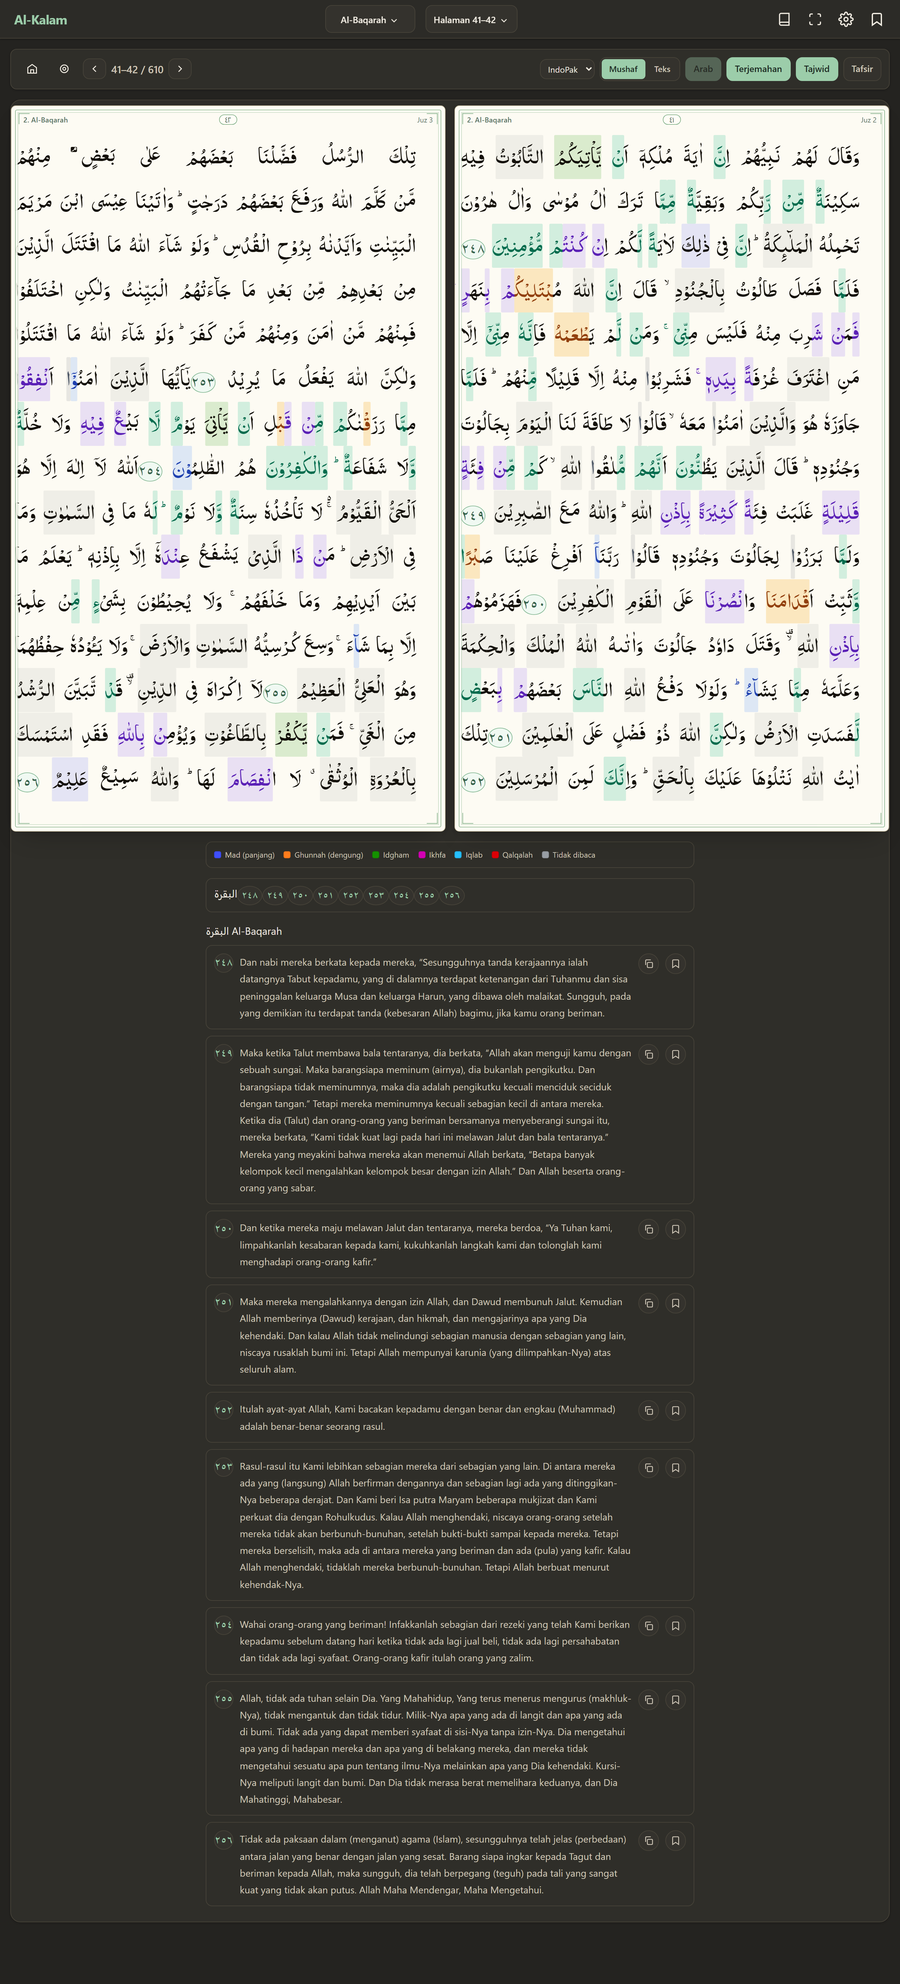
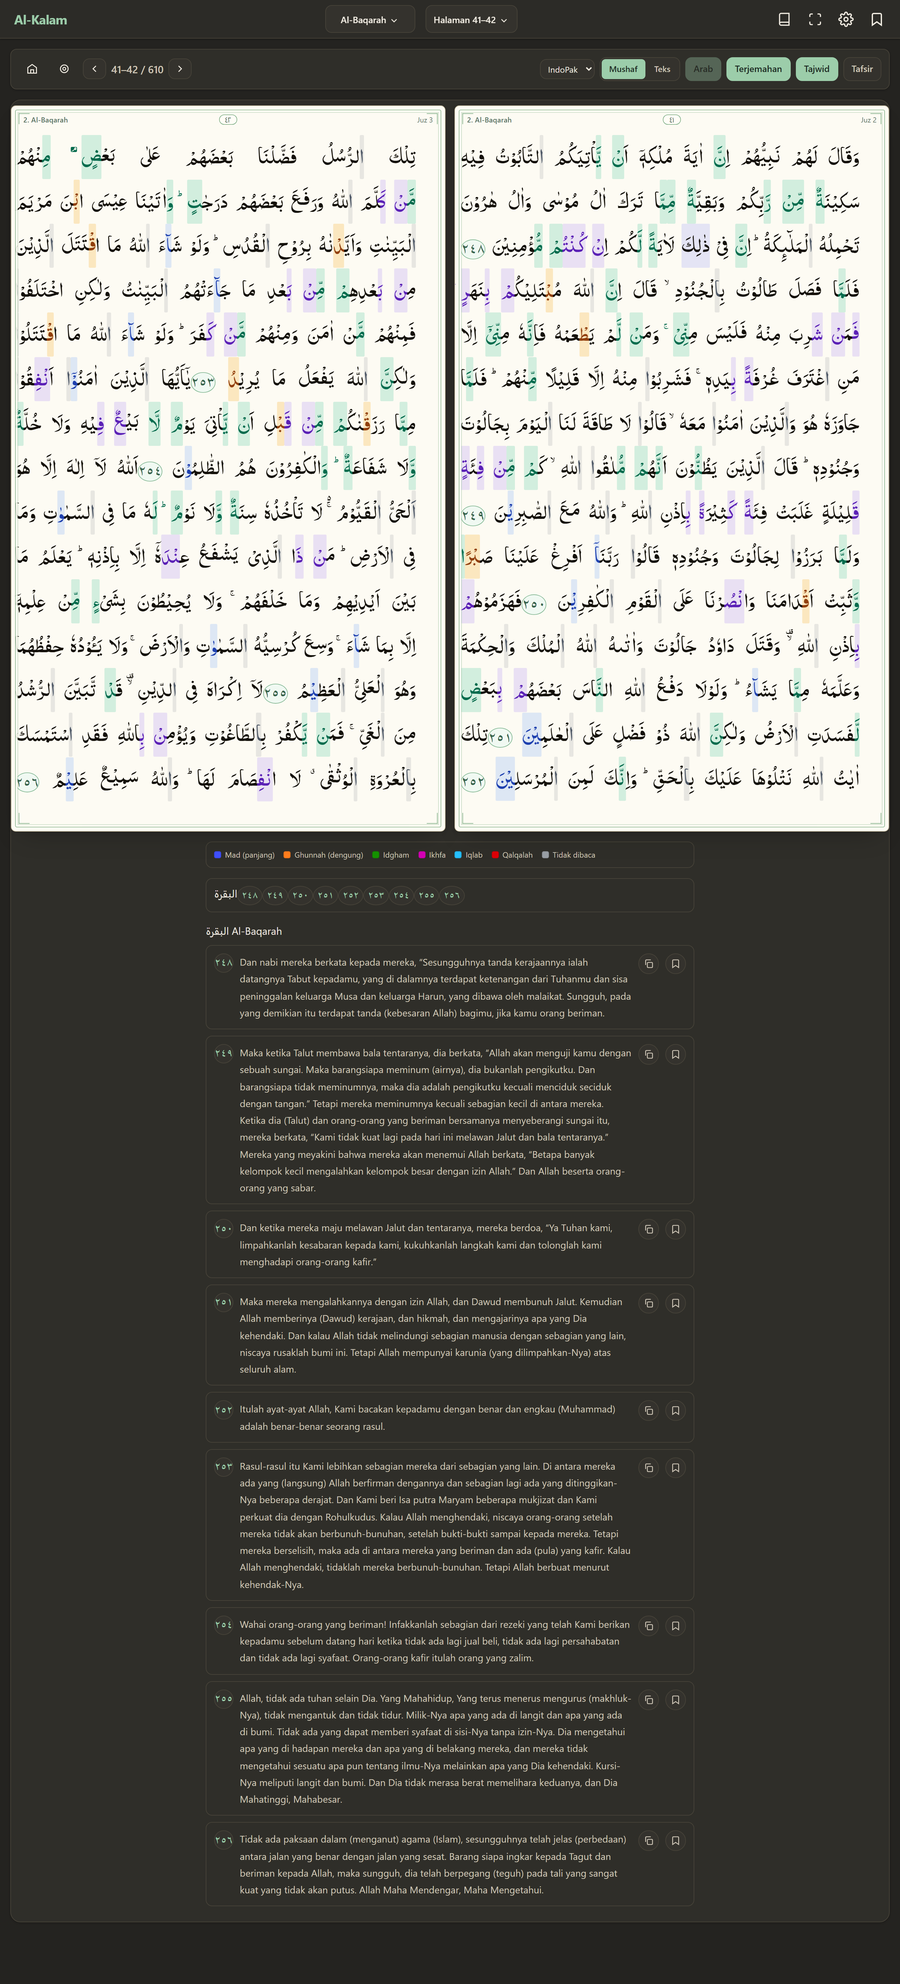
Audit tajwid IndoPak: kata penuh & ayat tanpa sorotan diperbaiki
Masalah (hasil audit 6.236 ayat):
- 217 ayat dilewati total karena jumlah kata IndoPak != markup
- 17% huruf tidak punya pasangan lalu MEWARISI aturan terakhir, sehingga
  sorotan melebar ke seluruh kata

Perbaikan:
- Penyejajaran KATA (Needleman-Wunsch + kemiripan huruf dasar) untuk ayat yang
  jumlah katanya berbeda; 4.223 kata di 217 ayat itu kini terpetakan (100%)
- Huruf tanpa pasangan tidak lagi mewarisi aturan; hanya diwarnai bila diapit
  dua huruf beraturan sama
- Cadangan proporsional bila penyelarasan huruf tidak menghasilkan aturan sama
  sekali (mis. kata yang bentuknya jauh berbeda)

Hasil audit setelah perbaikan:
- Ayat berhukum & terwarnai : 5.910
- Ayat tanpa hukum (memang)  : 92
- Ayat berhukum tapi kosong  : 1  (sebelumnya 234)
- Kata diwarnai penuh        : 694 (0,9%)
- Kata diwarnai sebagian     : 45.267
- Huruf diwarnai             : 57.521 / 325.006 (17,7%)

- Skrip audit ikut di repo: tools/audit_tajwid_final.py
- Diuji di browser: 2:26 -> 27/39 kata berwarna per huruf, 0 kata penuh;
  2:248 -> 16/30 per huruf, 1 kata penuh; tanpa error

diff --git a/js/app.js b/js/app.js
@@ -157,7 +157,7 @@
   }
   
   // ── Versi build (tanda bahwa browser memakai bundel terbaru) ────────
-  const BUILD = '2026-11-22-tajwid-textref';
+  const BUILD = '2026-11-22-tajwid-audit';
 
   function showBuildTag() {
     const el = document.getElementById('buildTag');
@@ -474,21 +474,82 @@
           : Math.max(dp[i + 1][j], dp[i][j + 1]);
       }
     }
-    const out = new Array(n).fill(null);
-    let i = 0, j = 0, lastRule = null;
+    const out = new Array(n).fill(undefined);
+    let i = 0, j = 0;
     while (i < n && j < m) {
       if (base[i] === markupBase[j]) {
-        out[i] = rules[j] ?? lastRule;
-        if (rules[j]) lastRule = rules[j];
+        out[i] = rules[j] ?? null;
         i++; j++;
       } else if (dp[i + 1][j] >= dp[i][j + 1]) {
-        out[i] = lastRule;        // huruf IndoPak tanpa pasangan
-        i++;
+        i++;                      // huruf IndoPak tanpa pasangan (dibiarkan kosong)
       } else {
         j++;
       }
     }
-    while (i < n) { out[i] = lastRule; i++; }
+    // huruf kosong yang diapit dua huruf beraturan sama ikut diwarnai
+    for (let k = 0; k < n; k++) {
+      if (out[k] !== undefined) continue;
+      let a = k - 1; while (a >= 0 && out[a] === undefined) a--;
+      let b = k + 1; while (b < n && out[b] === undefined) b++;
+      const left = a >= 0 ? out[a] : null;
+      const right = b < n ? out[b] : null;
+      out[k] = (left && right && left === right) ? left : null;
+    }
+    // cadangan terakhir: sebar menurut proporsi (mis. kata yang bentuknya jauh berbeda)
+    if (!out.some(Boolean) && m > 0 && rules.length) {
+      for (let k = 0; k < n; k++) {
+        const j = n > 1 ? Math.round(k * (m - 1) / (n - 1)) : 0;
+        out[k] = rules[Math.min(j, rules.length - 1)] || null;
+      }
+    }
+    return out;
+  }
+
+  /** Kemiripan dua kata (0..1) untuk penyejajaran kata. */
+  function wordSimilarity(a, b) {
+    if (!a || !b) return -0.5;
+    if (a === b) return 1;
+    const n = a.length, m = b.length;
+    if (!n || !m) return -0.4;
+    let prev = new Array(m + 1).fill(0);
+    for (let i = 1; i <= n; i++) {
+      const cur = new Array(m + 1).fill(0);
+      for (let j = 1; j <= m; j++) {
+        cur[j] = a[i - 1] === b[j - 1] ? prev[j - 1] + 1 : Math.max(prev[j], cur[j - 1]);
+      }
+      prev = cur;
+    }
+    const r = prev[m] / Math.max(n, m);
+    return r >= 0.95 ? 1 : r >= 0.7 ? 0.7 : r >= 0.5 ? 0.4 : -0.4;
+  }
+
+  /**
+   * Sejajarkan daftar kata IndoPak dengan kata markup (Needleman-Wunsch).
+   * Dipakai saat jumlah kata berbeda (217 ayat) agar tetap bisa diwarnai.
+   */
+  function alignWords(indo, markup) {
+    const n = indo.length, m = markup.length;
+    const GAP = -0.55;
+    const dp = Array.from({ length: n + 1 }, () => new Array(m + 1).fill(0));
+    for (let i = n; i >= 0; i--) {
+      for (let j = m; j >= 0; j--) {
+        if (i === n && j === m) dp[i][j] = 0;
+        else if (i === n) dp[i][j] = dp[i][j + 1] + GAP;
+        else if (j === m) dp[i][j] = dp[i + 1][j] + GAP;
+        else dp[i][j] = Math.max(
+          dp[i + 1][j + 1] + wordSimilarity(indo[i], markup[j]),
+          dp[i + 1][j] + GAP,
+          dp[i][j + 1] + GAP);
+      }
+    }
+    const out = new Array(n).fill(-1);
+    let i = 0, j = 0;
+    while (i < n && j < m) {
+      const diag = dp[i + 1][j + 1] + wordSimilarity(indo[i], markup[j]);
+      if (Math.abs(dp[i][j] - diag) < 1e-9) { out[i] = j; i++; j++; }
+      else if (Math.abs(dp[i][j] - (dp[i + 1][j] + GAP)) < 1e-9) i++;
+      else j++;
+    }
     return out;
   }
 
@@ -1045,25 +1106,43 @@
     // ayat tidak dihitung), supaya indeks sejajar dengan markup tajwid.
     const tintByVerse = new Map();
     if (wordTintOn) {
-      const textPos = new Map();                 // vk -> [pos kata teks, urut]
+      const textPos = new Map();                 // vk -> [{ pos, base }] urut
       for (const row of buildRows(layout, page, chapters) || []) {
         if (row.kind !== 'words') continue;
-        for (const [vk, pos, , isEnd] of row.words) {
+        for (const [vk, pos, glyph, isEnd] of row.words) {
           if (isEnd) continue;
+          const txt = String(glyph).replace(/[\uE000-\uF8FF]/g, '').trim();
           if (!textPos.has(vk)) textPos.set(vk, []);
-          textPos.get(vk).push(pos);
+          textPos.get(vk).push({ pos, base: baseLetters(txt) });
         }
       }
-      for (const [vk, poss] of textPos) {
-        const letters = await verseLetterData(vk);      // kata + aturan per huruf
-        if (!letters.length || letters.length !== poss.length) continue;  // jumlah kata beda
-        const m = new Map();
-        poss.forEach((p, i) => {
-          const g = (letters[i].rules || []).find(Boolean) || null;       // aturan dominan kata
-          if (g) m.set(p, g);
+      for (const [vk, items] of textPos) {
+        const markupWords = await verseLetterData(vk);   // [{ base, rules }]
+        if (!markupWords.length) continue;
+
+        // petakan kata IndoPak → kata markup (jumlah sama: langsung; beda: disejajarkan)
+        let mapping;
+        if (markupWords.length === items.length) {
+          mapping = items.map((_, i) => i);
+        } else {
+          mapping = alignWords(items.map(x => x.base), markupWords.map(w => w.base));
+        }
+
+        const byOrdinal = new Map();               // ordinal → kata markup
+        const m = new Map();                       // posisi → grup dominan (cadangan)
+        items.forEach((it, i) => {
+          const j = mapping[i];
+          if (j == null || j < 0) return;
+          const word = markupWords[j];
+          if (!word) return;
+          byOrdinal.set(i, word);
+          const g = (word.rules || []).find(Boolean) || null;
+          if (g) m.set(it.pos, g);
         });
-        tintByVerse.set(vk, m);
-        letterByVerse.set(vk, letters);
+        if (byOrdinal.size) {
+          tintByVerse.set(vk, m);
+          letterByVerse.set(vk, byOrdinal);
+        }
       }
     }
 
@@ -1103,7 +1182,7 @@
                 if (wordTintOn) {
                   const ord = wordOrdinal.get(vk) || 0;
                   wordOrdinal.set(vk, ord + 1);
-                  const markupWord = (letterByVerse.get(vk) || [])[ord];
+                  const markupWord = letterByVerse.get(vk)?.get(ord);
                   const perLetter = markupWord ? tintedWordHtml(clean, markupWord) : null;
                   if (perLetter !== null) {
                     inner = perLetter;

diff --git a/sw.js b/sw.js
@@ -2,9 +2,9 @@
  * Al-Kalam Digital — Service Worker
  * Offline-first untuk halaman mushaf & data JSON
  */
-const CACHE_NAME = 'alkalam-v27';
+const CACHE_NAME = 'alkalam-v28';
 const DATA_CACHE = 'alkalam-data-v3';
-const PAGE_CACHE = 'alkalam-pages-v27';
+const PAGE_CACHE = 'alkalam-pages-v28';
 const IMG_CACHE = 'alkalam-page-images-v2';
 
 // File yang di-cache saat install (app shell)
